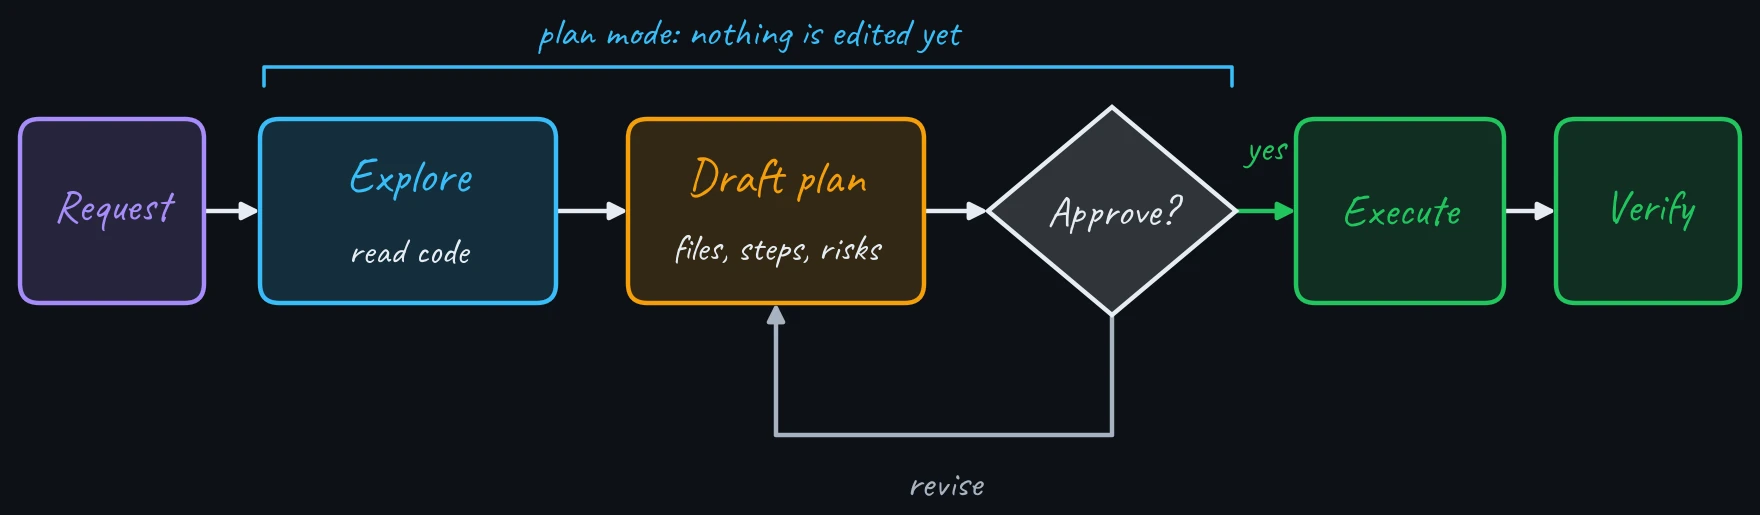
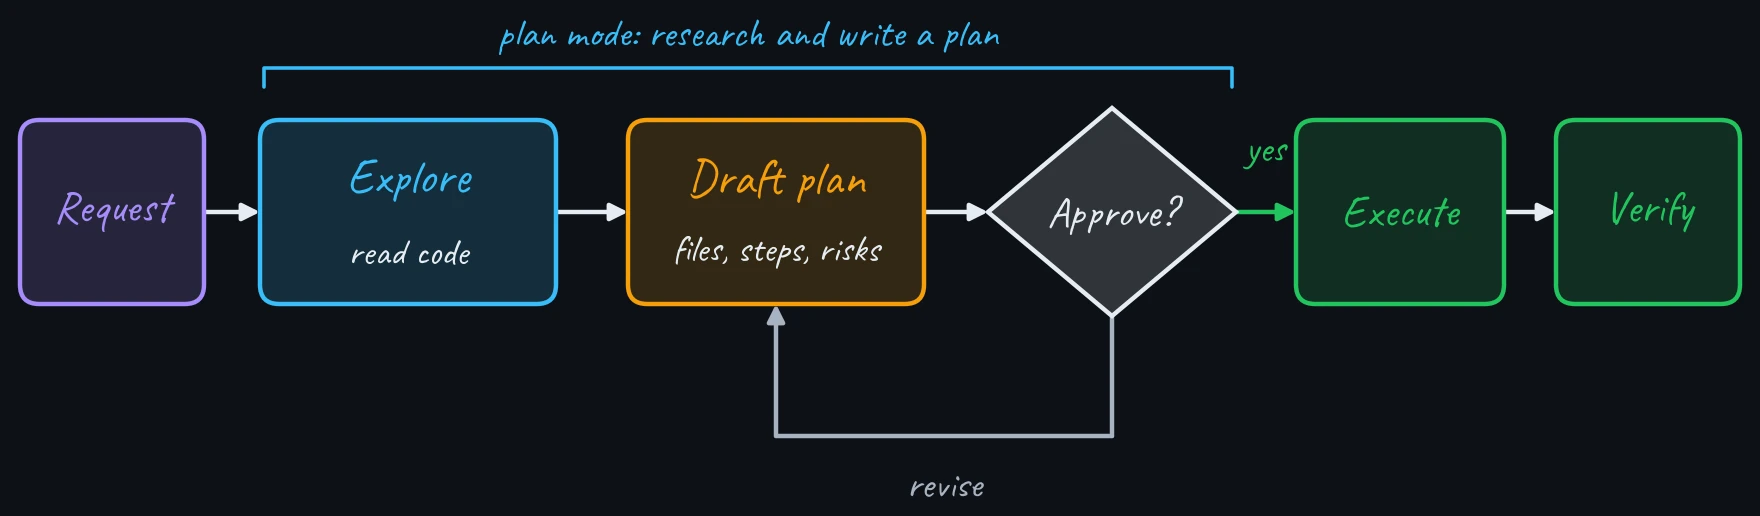
docs(slides): refresh guidance for claude code 2.1.318 (#54)

diff --git a/meta-tags.html b/meta-tags.html
@@ -83,7 +83,7 @@
       "thumbnailUrl": "https://www.indrapatil.com/effective-claude-code-usage/media/social-media-card.webp",
       "inLanguage": "en",
       "datePublished": "2026-06-20",
-      "dateModified": "2026-10-07",
+      "dateModified": "2026-11-05",
       "encodingFormat": "text/html",
       "learningResourceType": "presentation",
       "license": "https://creativecommons.org/publicdomain/zero/1.0/",

diff --git a/media/generate_diagrams.py b/media/generate_diagrams.py
@@ -282,7 +282,7 @@ def make_07():
     arr(ax, 7.725, y, 8.1, y, col=GRN)
     lbl(ax, 7.91, y + 0.4, 'yes', col=GRN, fs=18)
 
-    bracket(ax, 1.65, 7.7, 3.05, 'plan mode: nothing is edited yet', col=BLU)
+    bracket(ax, 1.65, 7.7, 3.05, 'plan mode: research and write a plan', col=BLU)
 
     loop_y = 0.75
     line(ax, [6.95, 6.95], [y - 0.65, loop_y])
